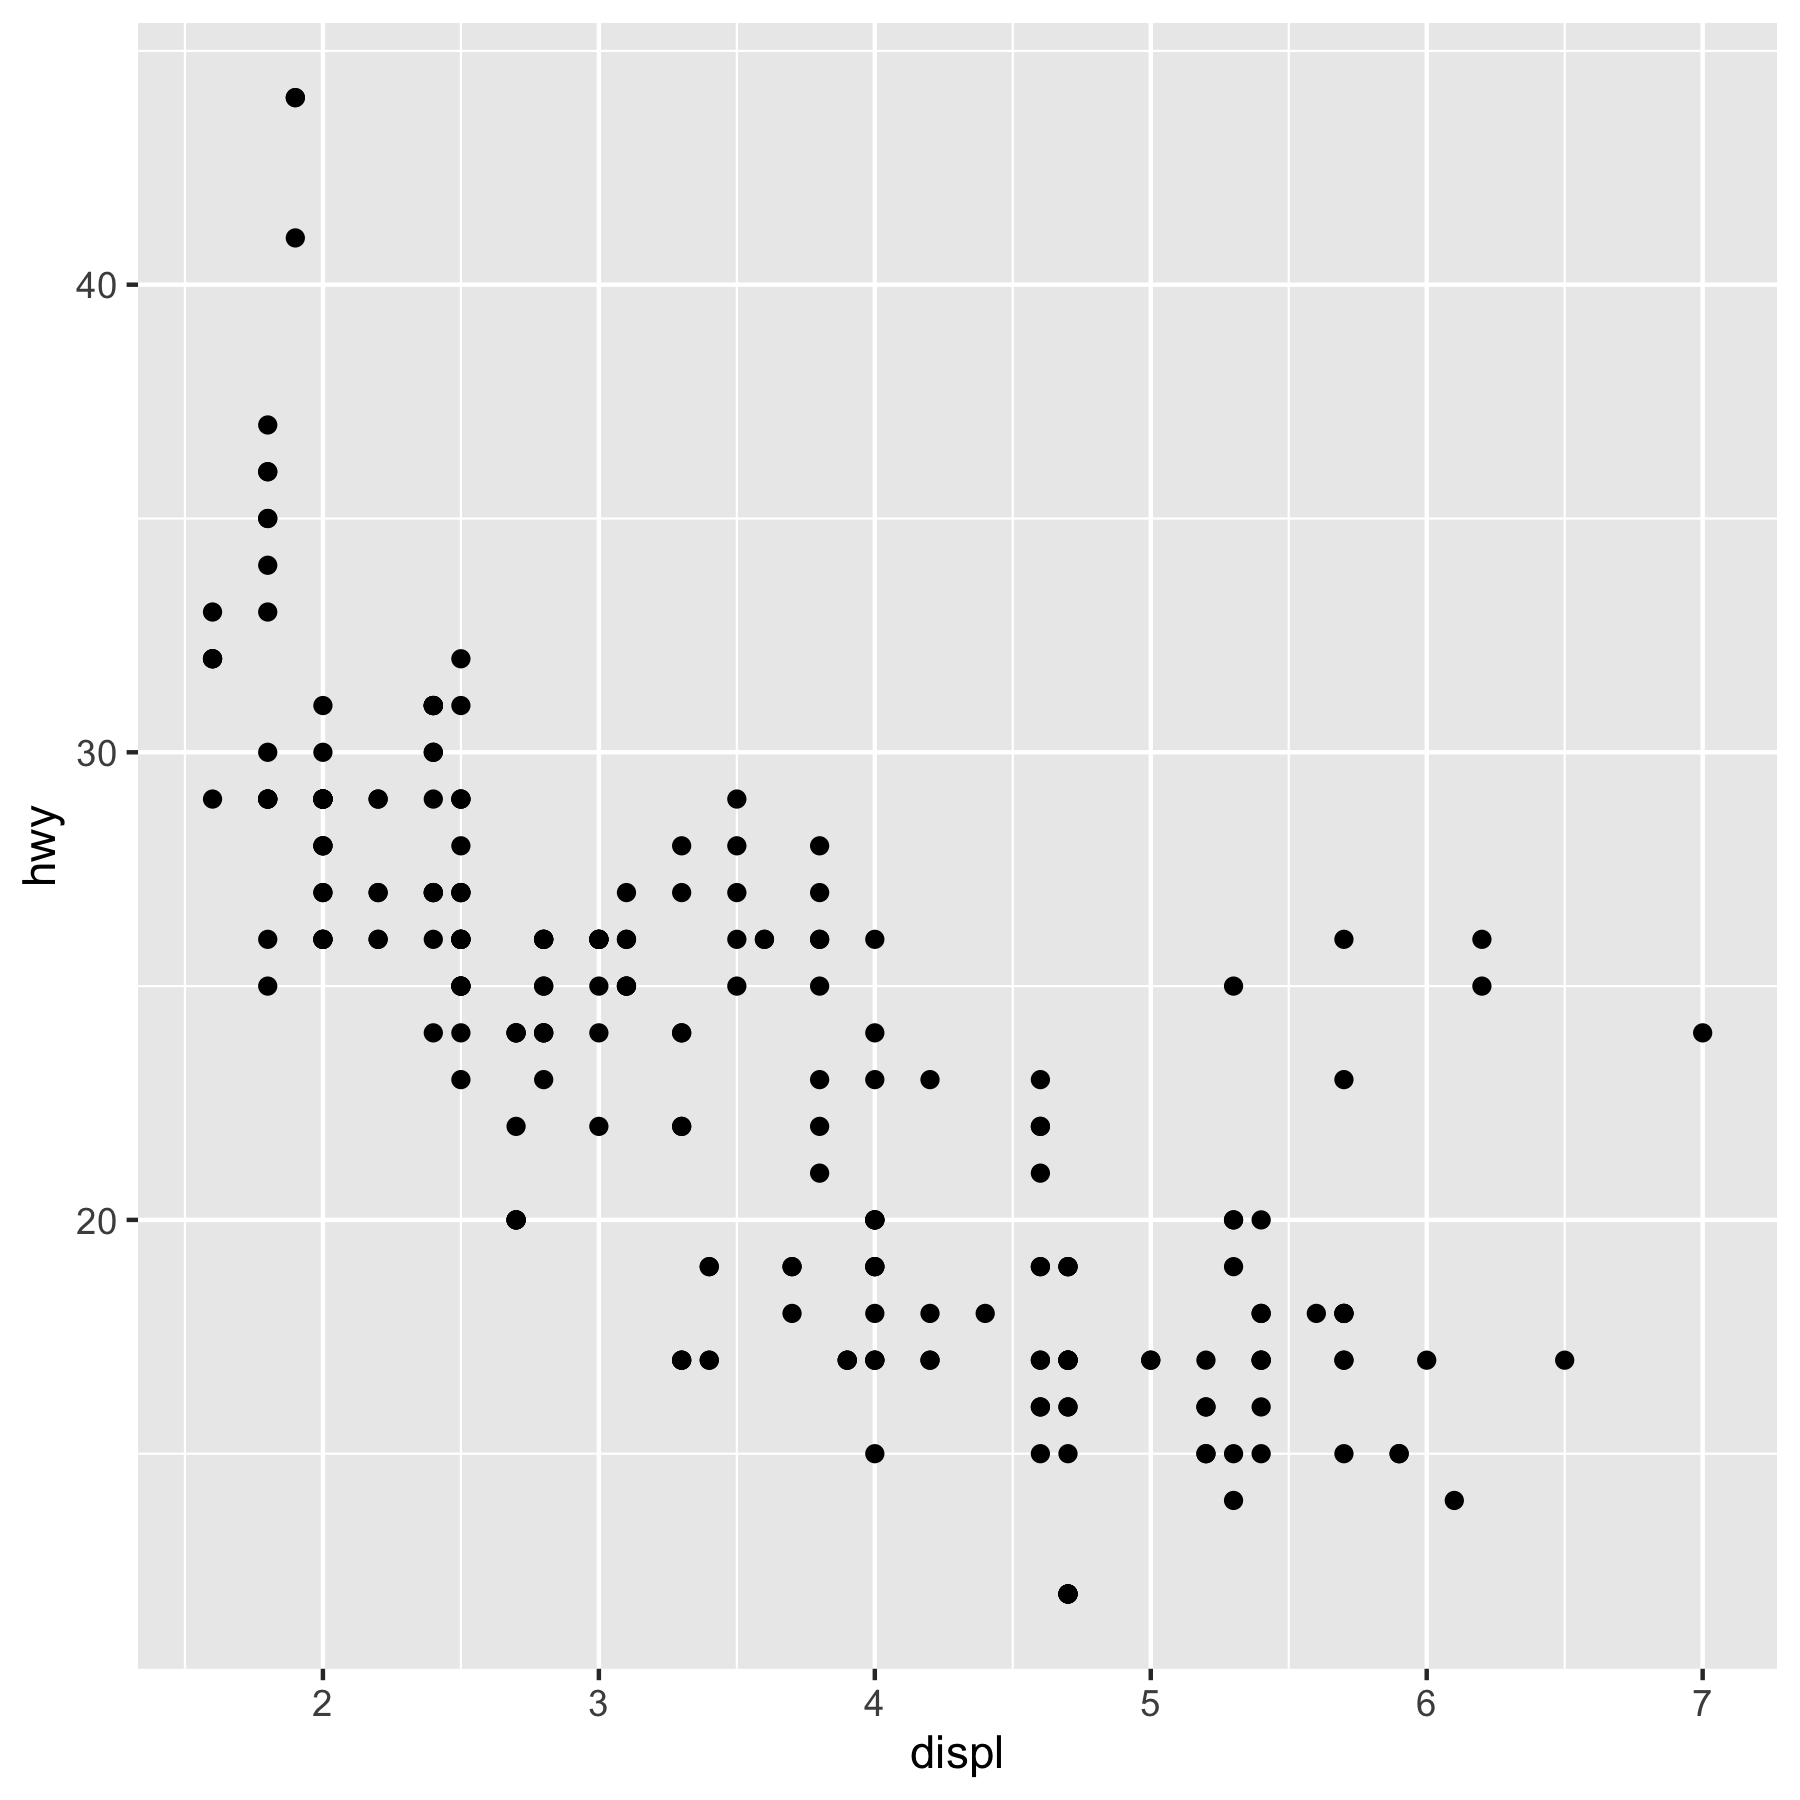
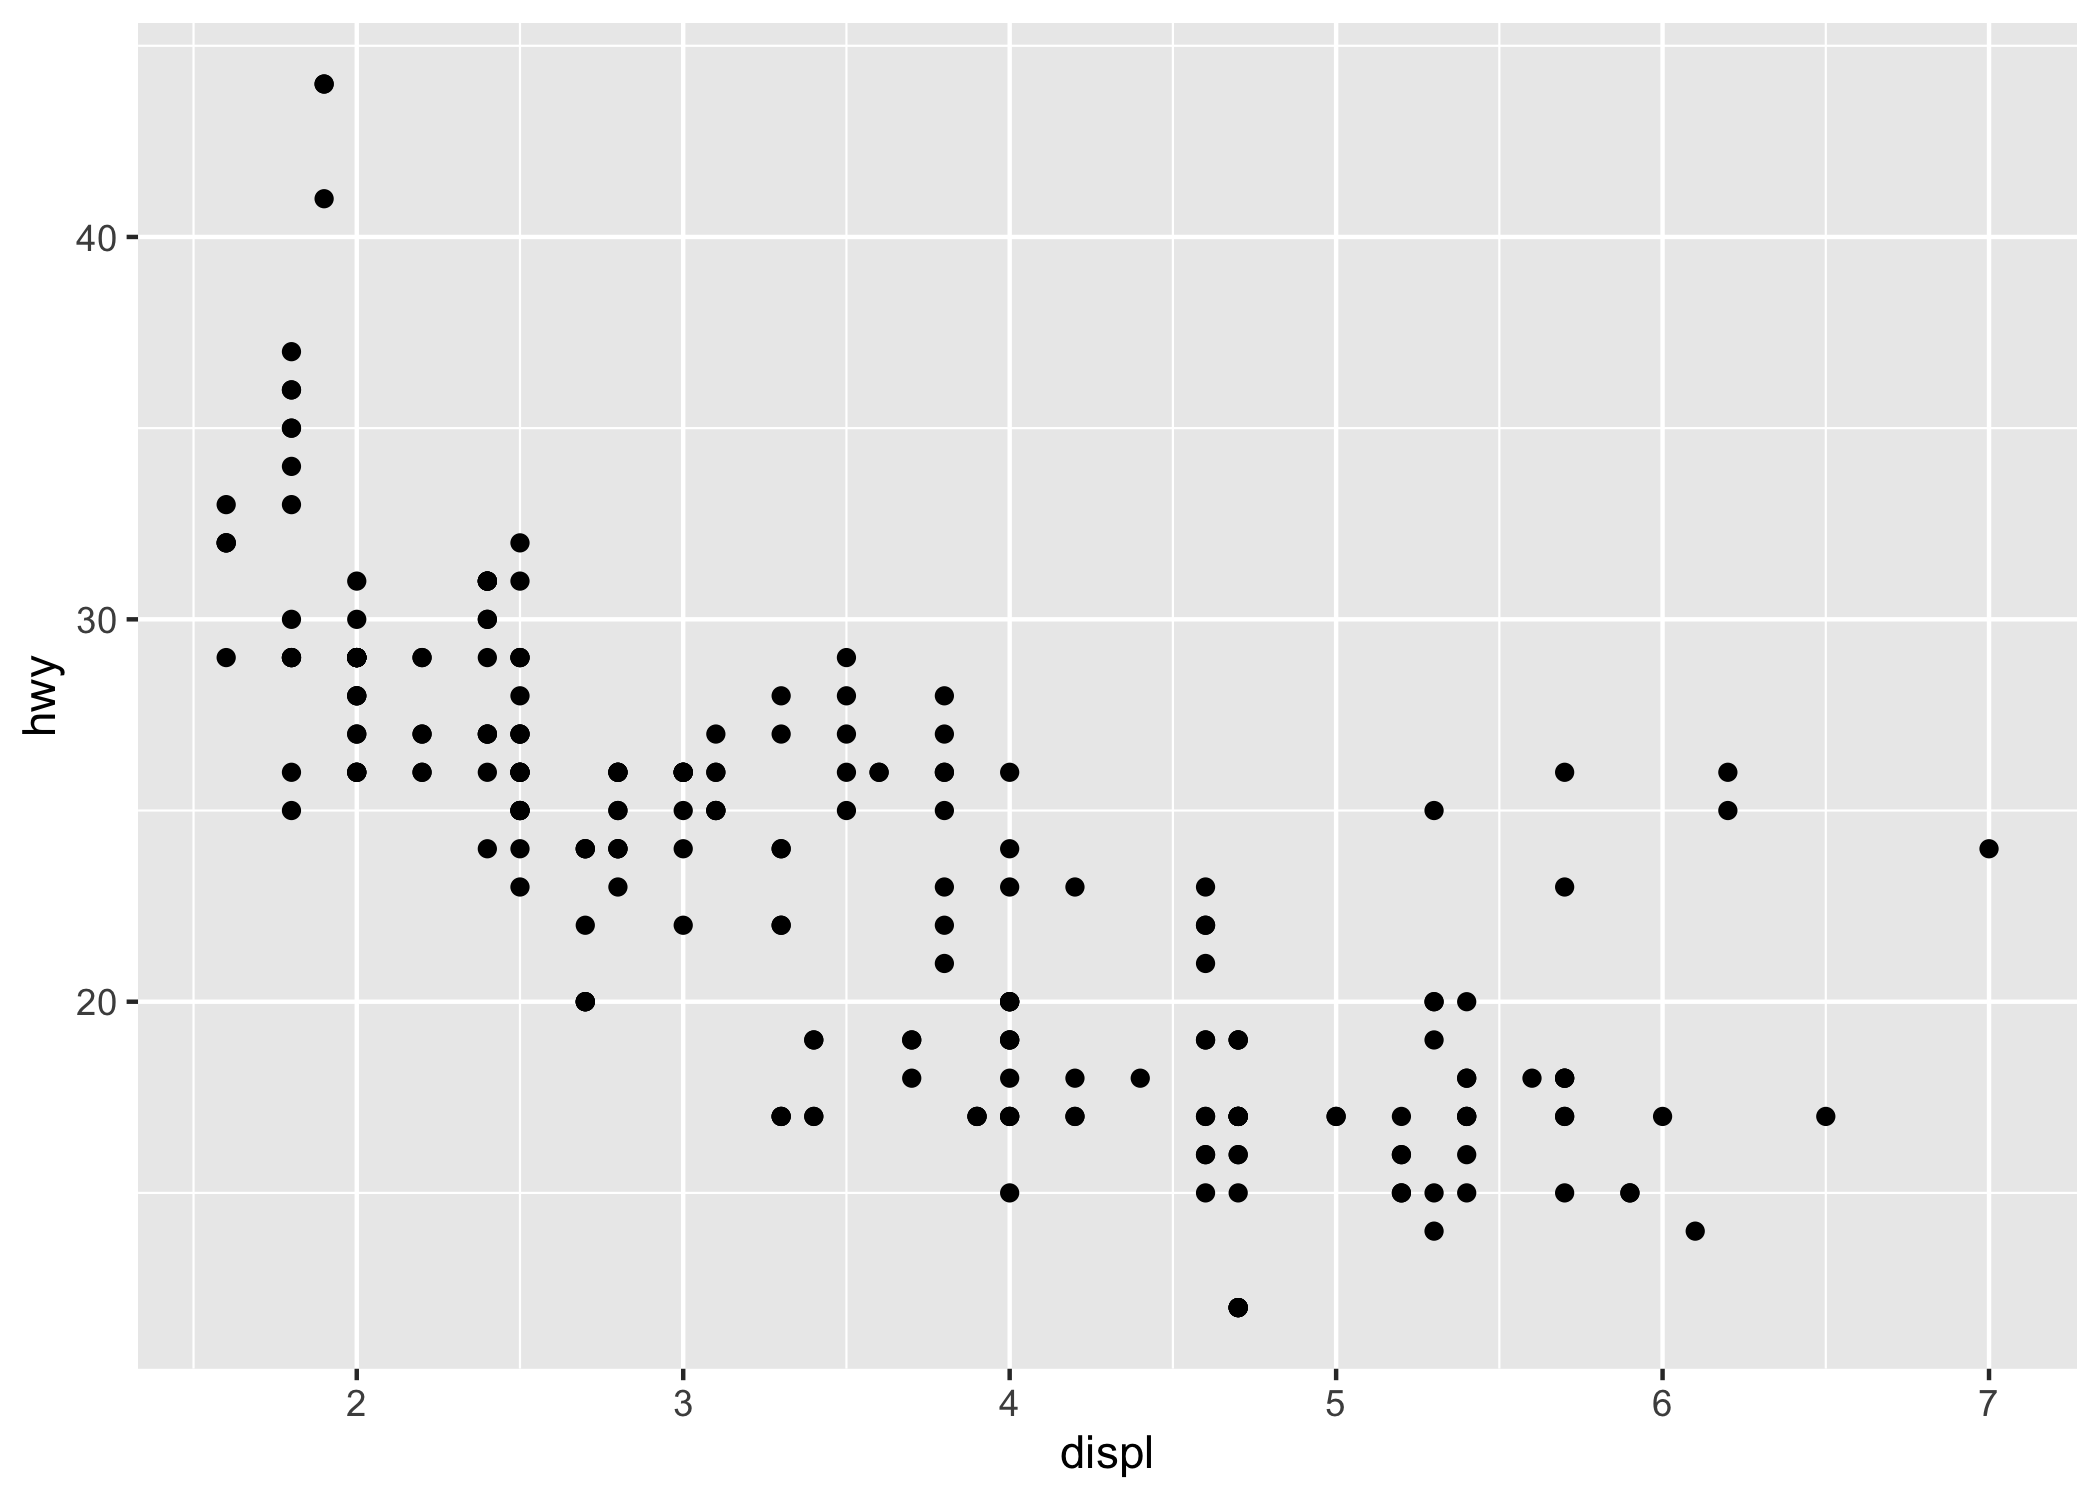
edit image size

diff --git a/README.md b/README.md
@@ -40,9 +40,9 @@ knitr::opts_chunk$set(
     message = FALSE,
     warning = FALSE,
     comment = "",
-    dpi = 300,
-    fig.width = 6,
-    fig.height = 6
+    dpi = 300
+    # fig.width = 6,
+    # fig.height = 6
 )
 ```
 
@@ -245,7 +245,7 @@ anscombe_cleaned %>%
           legend.position = "none") +
     labs(x = "x values",
          y = "y values",
-         caption = "Figure 1.1",
+         caption = "Figure 1.1\n",
          title = "\nPlots of Anscombe's quartet",
          subtitle = "All have a correlation coefficient of 0.81")
 ```
